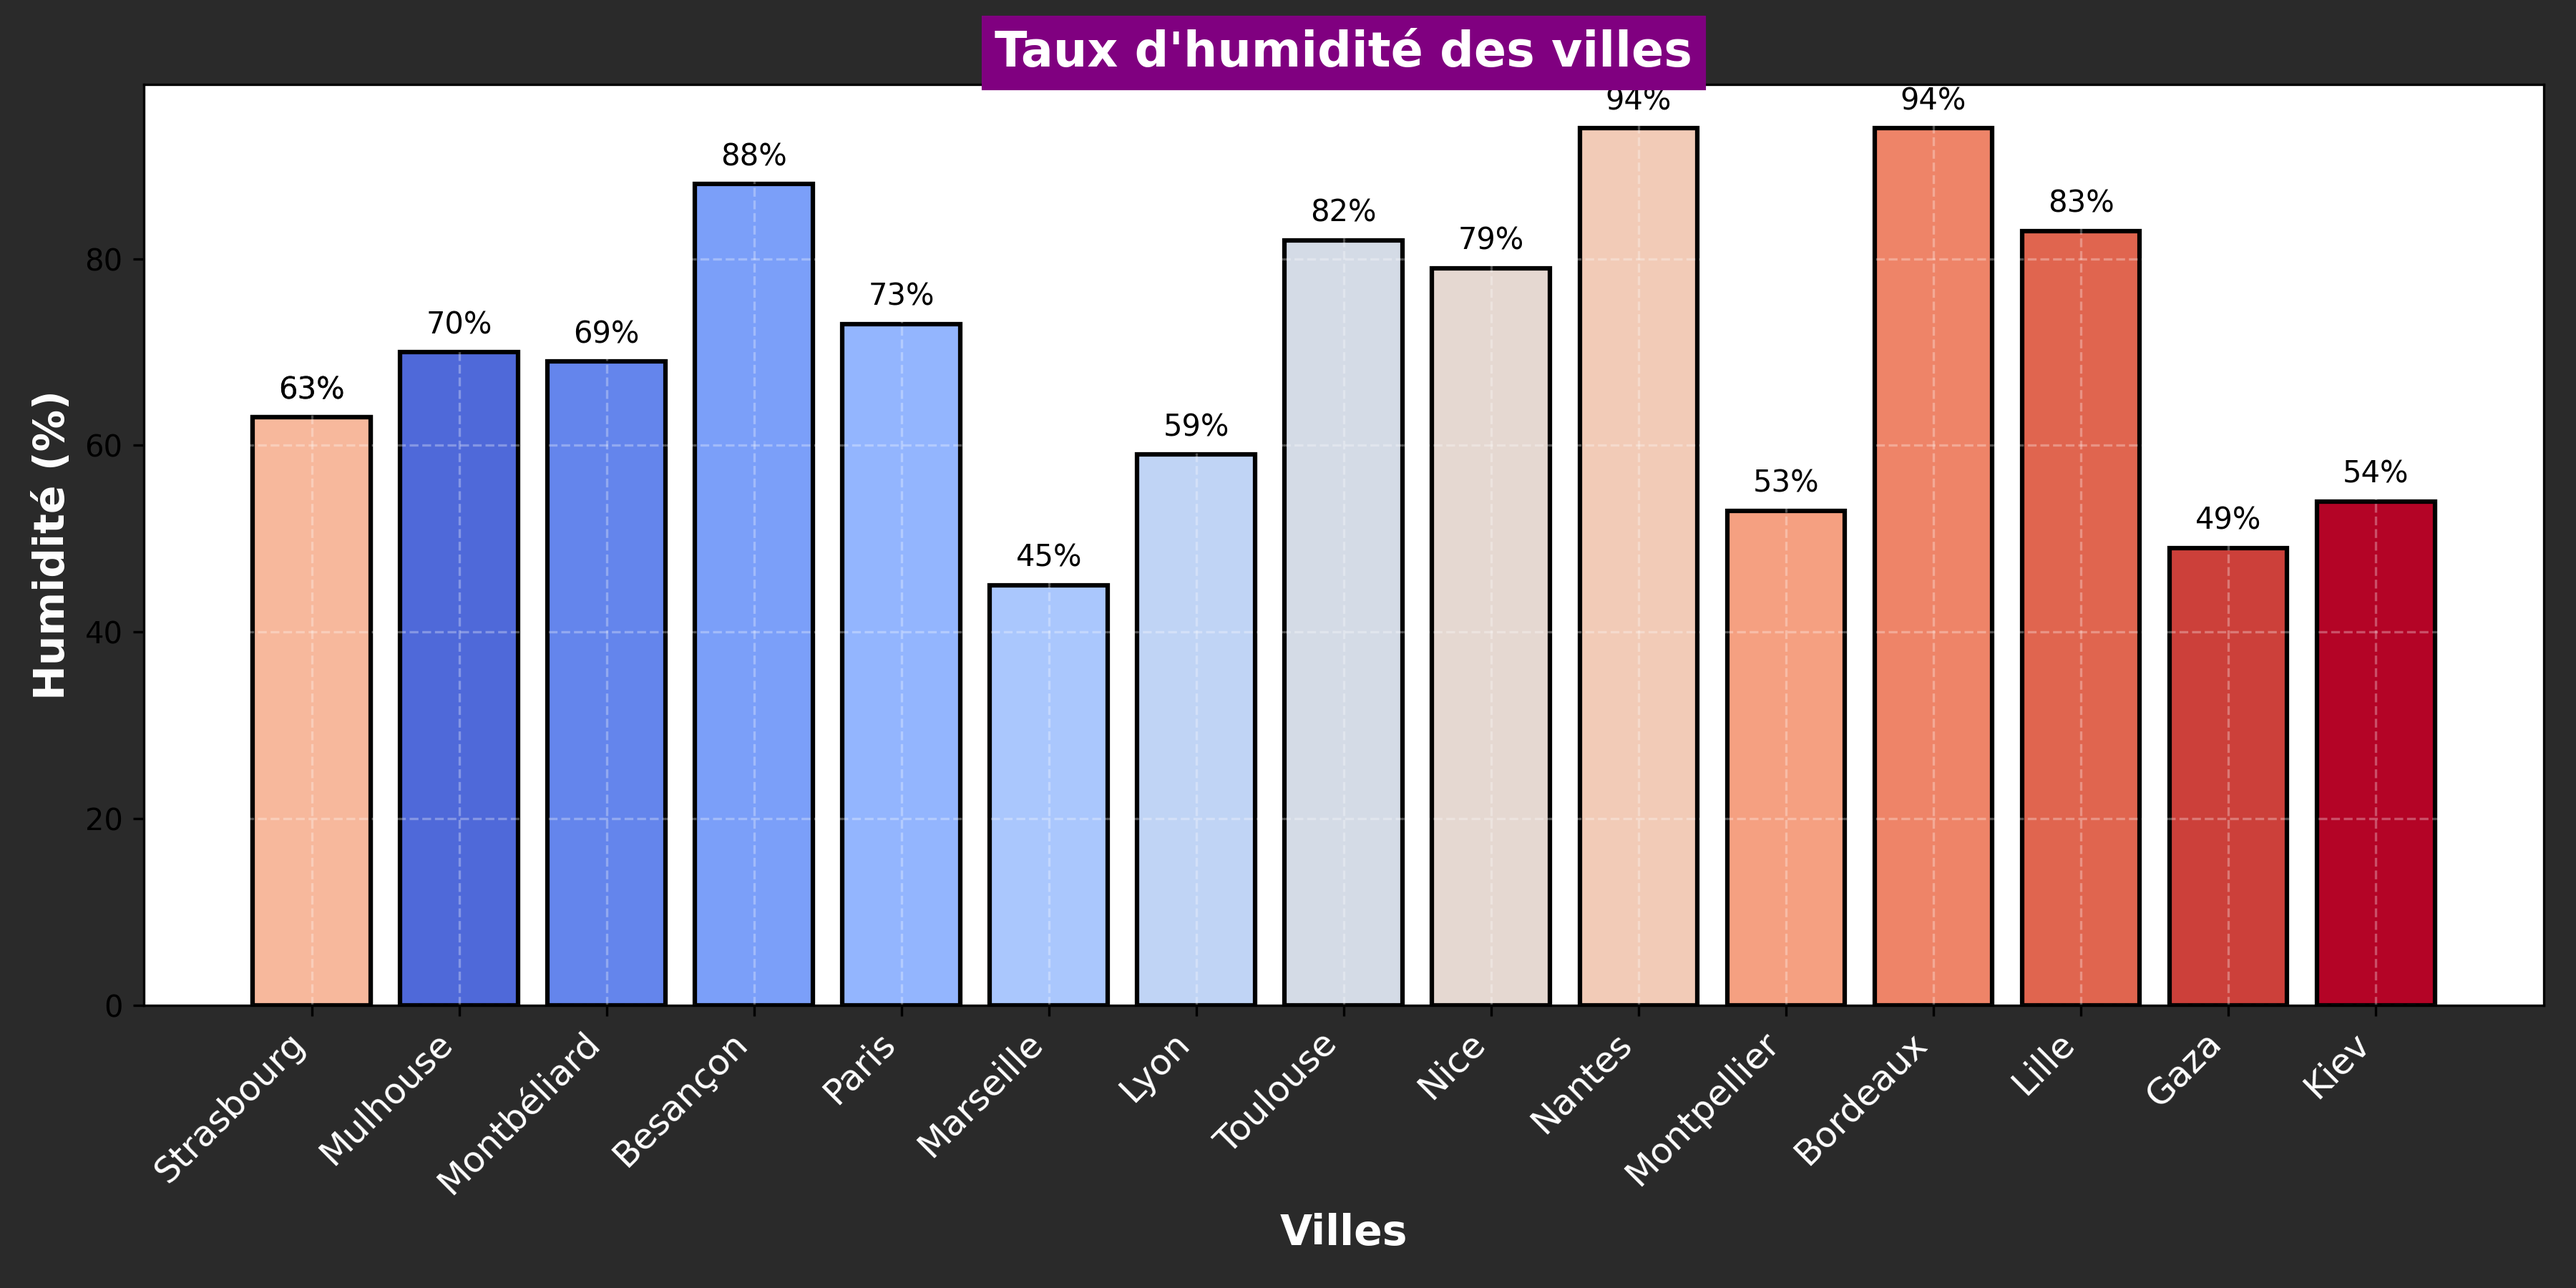
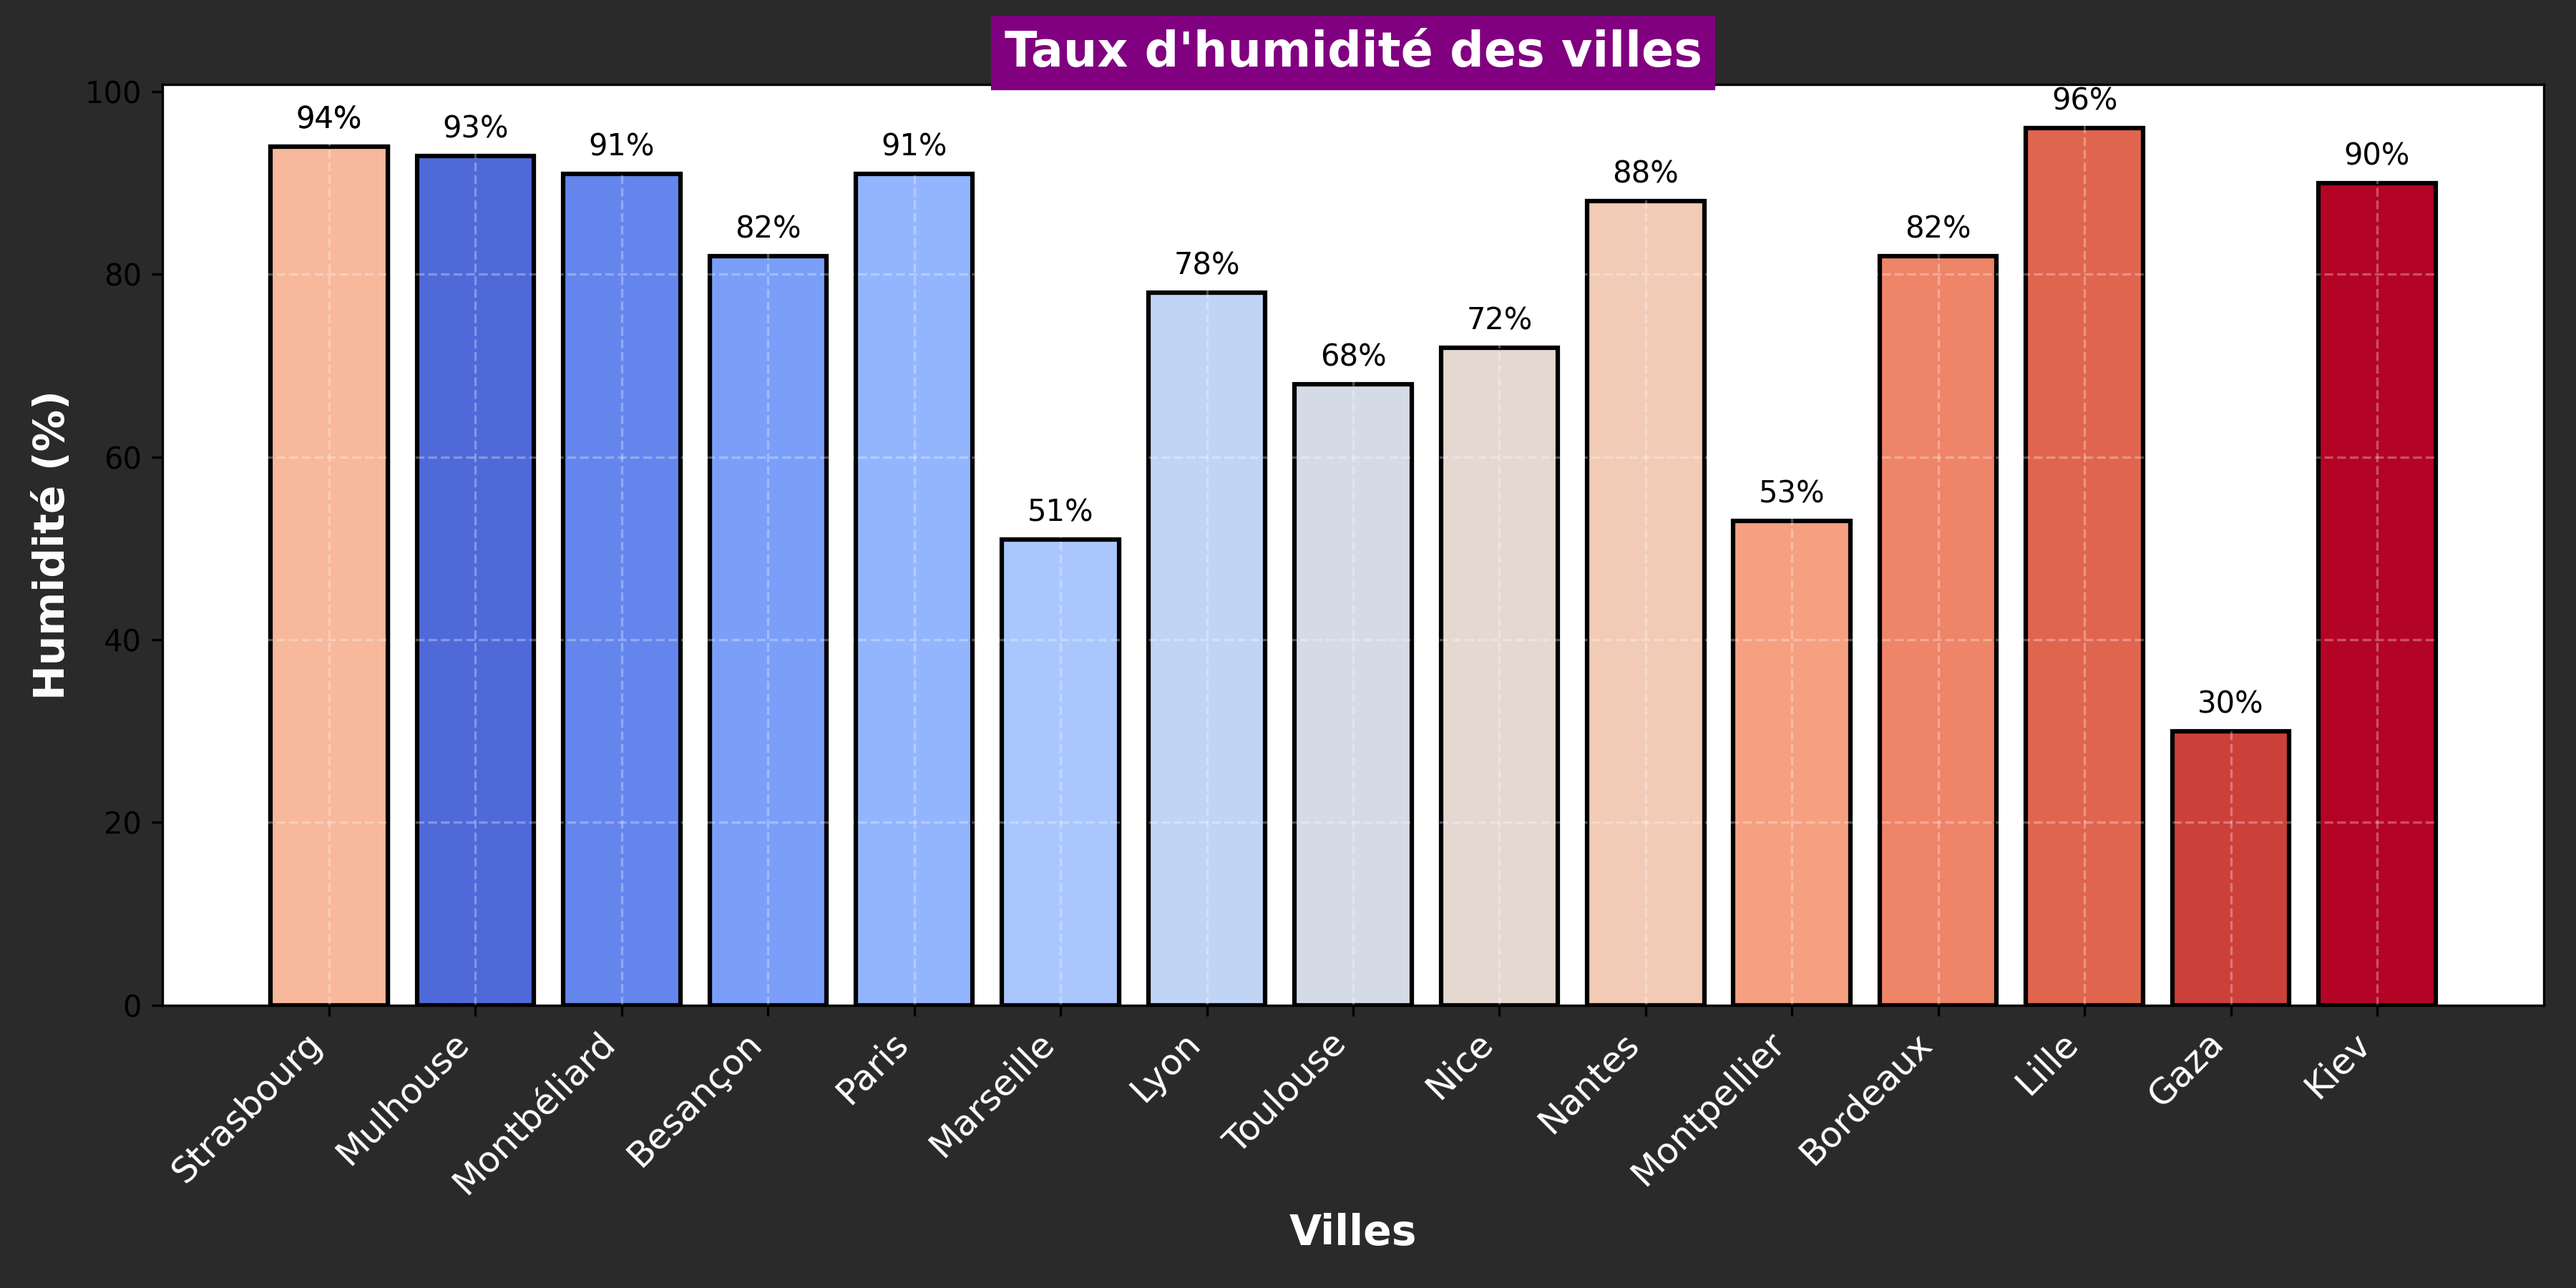
Mise à jour de la météo et ajout du graphique d'humidité

diff --git a/README.md b/README.md
@@ -24,103 +24,103 @@ Ce repo contient plusieurs workflows GitHub Actions :
 ## Météo actuelle :
 ## Météo des grandes villes + Gaza et Kiev 🌍
 
-🕒 Mise à jour : 16/07/2025 08:19:41
+🕒 Mise à jour : 17/07/2025 08:19:34
 
-### 🌍 Strasbourg 🌥
-**Conditions :** couvert
-**Température :** 19.02°C
-**Humidité :** 63%
-**Vent :** 2.06 m/s
-
-### 🌍 Mulhouse ☀
+### 🌍 Strasbourg ☀
 **Conditions :** ciel dégagé
-**Température :** 17.99°C
-**Humidité :** 70%
-**Vent :** 0.45 m/s
-
-### 🌍 Montbéliard 🌥
-**Conditions :** couvert
-**Température :** 18.32°C
-**Humidité :** 69%
-**Vent :** 3.12 m/s
-
-### 🌍 Besançon 🌥
-**Conditions :** couvert
-**Température :** 15.18°C
-**Humidité :** 88%
-**Vent :** 2.94 m/s
-
-### 🌍 Paris 🌥
-**Conditions :** nuageux
-**Température :** 19.17°C
-**Humidité :** 73%
-**Vent :** 6.17 m/s
-
-### 🌍 Marseille 🌥
-**Conditions :** peu nuageux
-**Température :** 22.12°C
-**Humidité :** 45%
-**Vent :** 5.4 m/s
-
-### 🌍 Lyon 🌥
-**Conditions :** partiellement nuageux
-**Température :** 17.99°C
-**Humidité :** 59%
-**Vent :** 0.89 m/s
-
-### 🌍 Toulouse 🌥
-**Conditions :** peu nuageux
-**Température :** 17.99°C
-**Humidité :** 82%
-**Vent :** 3.09 m/s
-
-### 🌍 Nice 🌥
-**Conditions :** partiellement nuageux
-**Température :** 18.05°C
-**Humidité :** 79%
-**Vent :** 1.12 m/s
-
-### 🌍 Nantes ☀
-**Conditions :** ciel dégagé
-**Température :** 16.96°C
+**Température :** 16.02°C
 **Humidité :** 94%
 **Vent :** 2.06 m/s
 
-### 🌍 Strasbourg 🌥
-**Conditions :** couvert
-**Température :** 19.02°C
-**Humidité :** 63%
+### 🌍 Mulhouse 🌥
+**Conditions :** peu nuageux
+**Température :** 16.1°C
+**Humidité :** 93%
+**Vent :** 0.51 m/s
+
+### 🌍 Montbéliard 🌥
+**Conditions :** nuageux
+**Température :** 17.21°C
+**Humidité :** 91%
+**Vent :** 1.15 m/s
+
+### 🌍 Besançon 🌥
+**Conditions :** nuageux
+**Température :** 18.51°C
+**Humidité :** 82%
+**Vent :** 0.16 m/s
+
+### 🌍 Paris ☀
+**Conditions :** ciel dégagé
+**Température :** 18.27°C
+**Humidité :** 91%
+**Vent :** 0 m/s
+
+### 🌍 Marseille ☀
+**Conditions :** ciel dégagé
+**Température :** 23.23°C
+**Humidité :** 51%
+**Vent :** 6.71 m/s
+
+### 🌍 Lyon 🌥
+**Conditions :** nuageux
+**Température :** 18.3°C
+**Humidité :** 78%
+**Vent :** 0.95 m/s
+
+### 🌍 Toulouse ☀
+**Conditions :** ciel dégagé
+**Température :** 18.99°C
+**Humidité :** 68%
+**Vent :** 1.54 m/s
+
+### 🌍 Nice ☀
+**Conditions :** ciel dégagé
+**Température :** 18.61°C
+**Humidité :** 72%
+**Vent :** 1.2 m/s
+
+### 🌍 Nantes ☀
+**Conditions :** ciel dégagé
+**Température :** 17.96°C
+**Humidité :** 88%
+**Vent :** 1.54 m/s
+
+### 🌍 Strasbourg ☀
+**Conditions :** ciel dégagé
+**Température :** 16.02°C
+**Humidité :** 94%
 **Vent :** 2.06 m/s
 
 ### 🌍 Montpellier ☀
 **Conditions :** ciel dégagé
-**Température :** 23.61°C
+**Température :** 25.83°C
 **Humidité :** 53%
-**Vent :** 3.6 m/s
+**Vent :** 1.03 m/s
 
 ### 🌍 Bordeaux ☀
 **Conditions :** ciel dégagé
-**Température :** 17.15°C
-**Humidité :** 94%
-**Vent :** 0 m/s
+**Température :** 19.15°C
+**Humidité :** 82%
+**Vent :** 2.06 m/s
 
-### 🌍 Lille 🌥
-**Conditions :** peu nuageux
-**Température :** 17.23°C
-**Humidité :** 83%
-**Vent :** 4.12 m/s
+### 🌍 Lille 🌫
+**Conditions :** brouillard
+**Température :** 15.54°C
+**Humidité :** 96%
+**Vent :** 1.54 m/s
 
 ### 🌍 Gaza ☀
 **Conditions :** ciel dégagé
-**Température :** 29.24°C
-**Humidité :** 49%
-**Vent :** 2.15 m/s
+**Température :** 31.35°C
+**Humidité :** 30%
+**Vent :** 1.58 m/s
 
 ### 🌍 Kiev 🌥
-**Conditions :** peu nuageux
-**Température :** 22.01°C
-**Humidité :** 54%
-**Vent :** 3.2 m/s
+**Conditions :** couvert
+**Température :** 20.4°C
+**Humidité :** 90%
+**Vent :** 0.45 m/s
 
 <p align='center'><img src='https://raw.githubusercontent.com/khoa083/khoa/main/Khoa_ne/img/Rainbow.gif' width='100%' style='border-radius: 5px; border: 3px solid #39FF14; box-shadow: 0 0 10px #39FF14, 0 0 20px #39FF14;' /></p>
 
